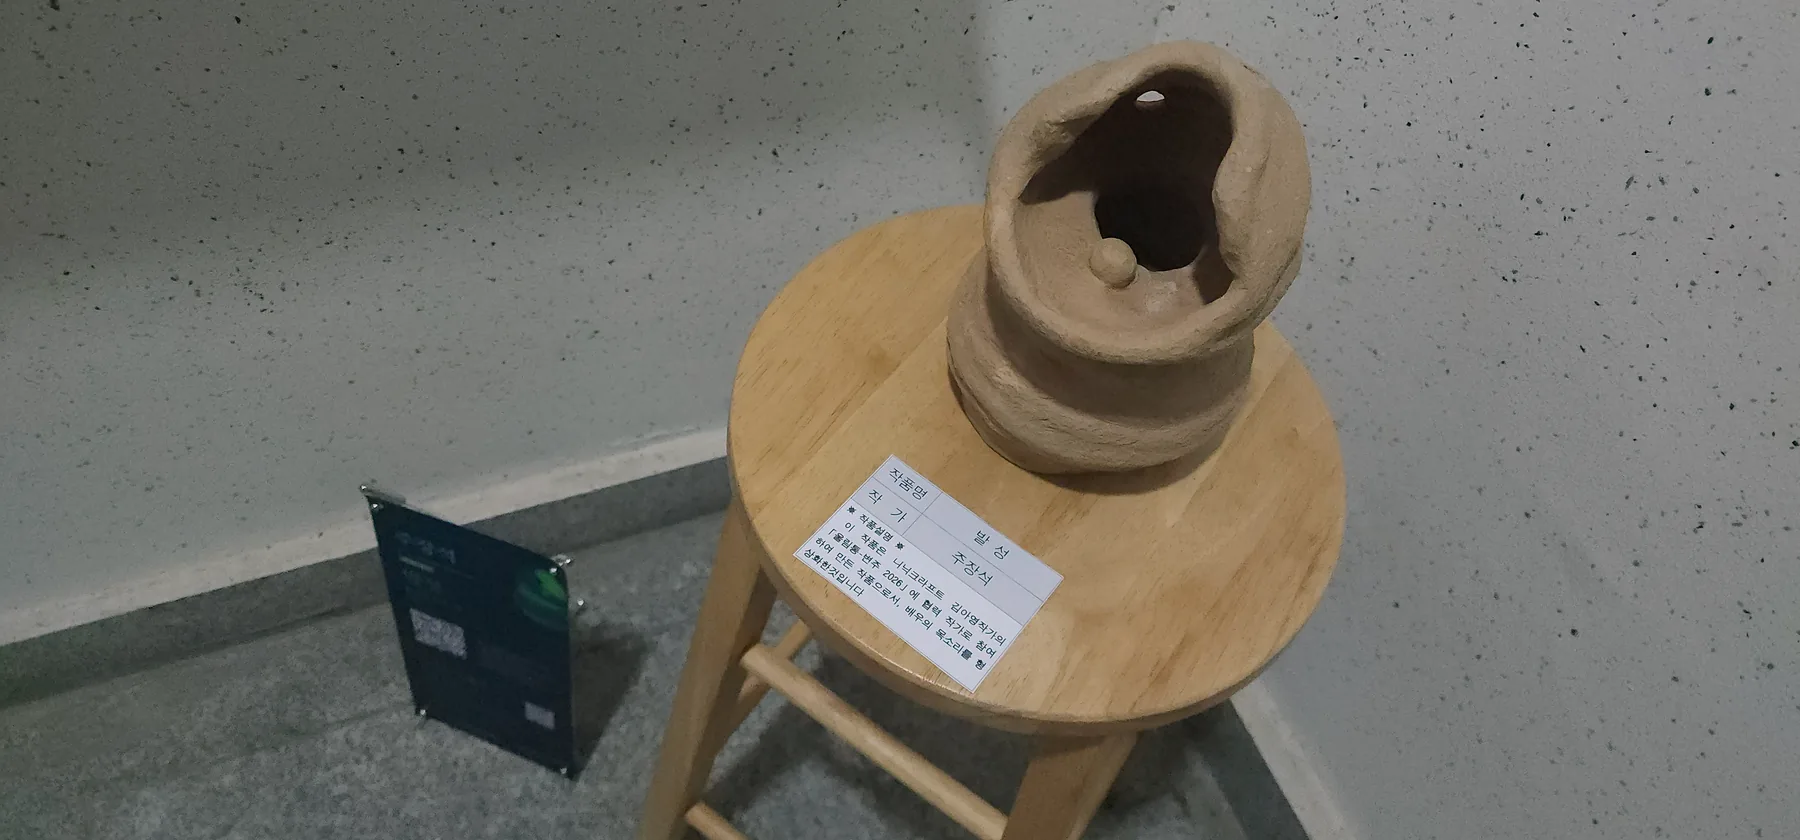
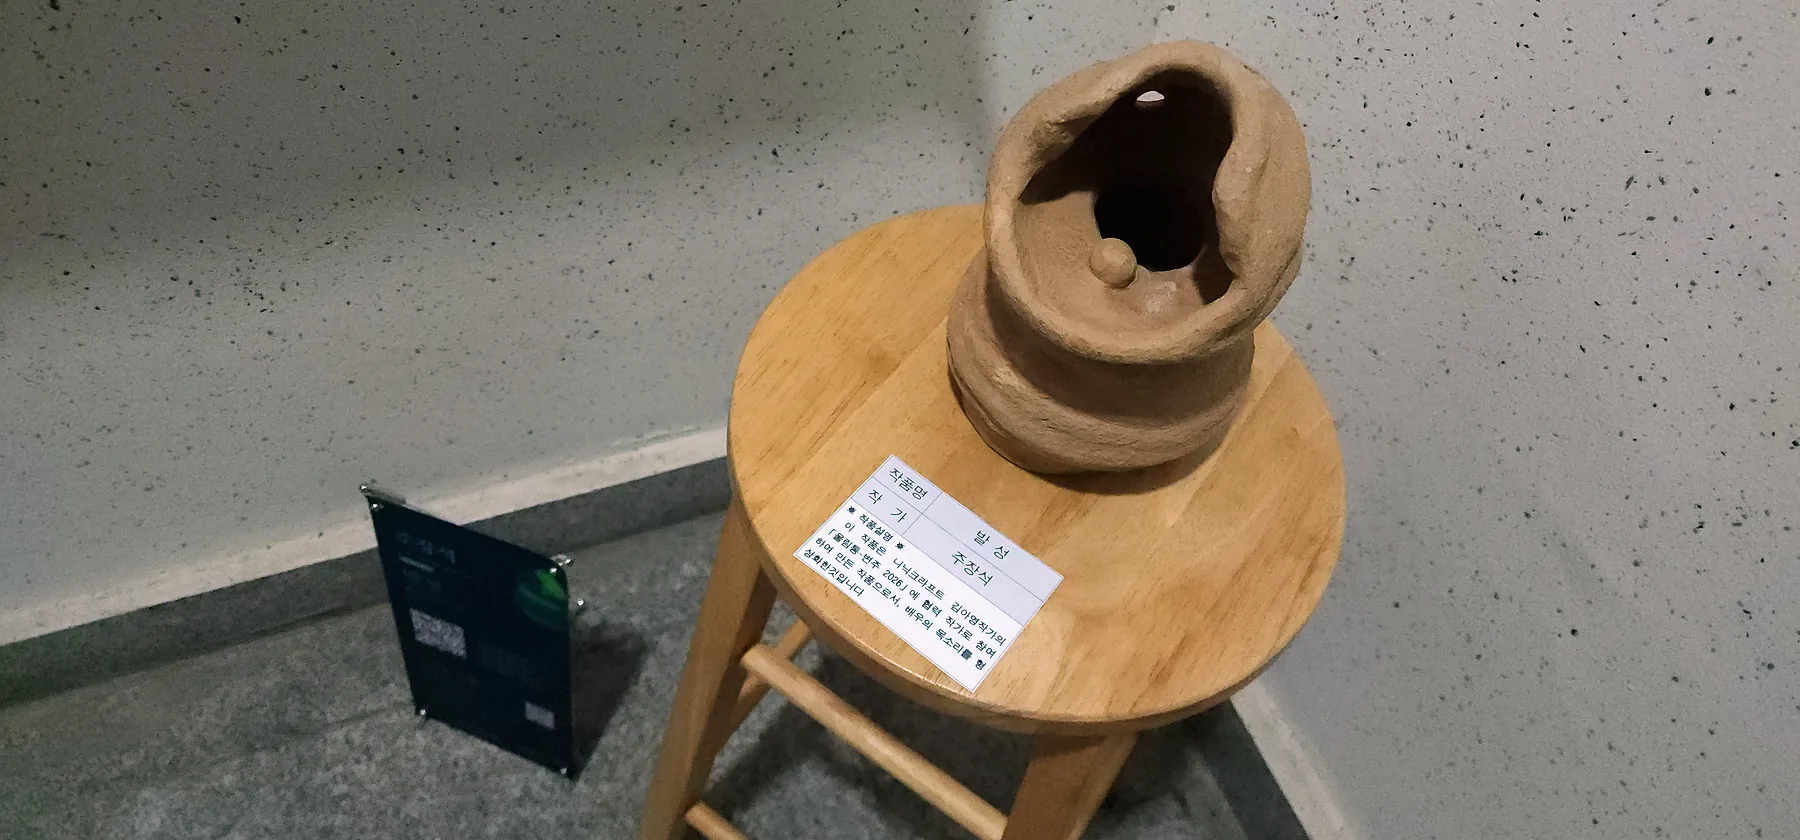
주장석 전시 전경: 네 장 모두 흰 벽 기준으로 초록 기 빼고 명암을 펴서 뿌연 느낌 제거

diff --git a/app/_content/artist-pages.js b/app/_content/artist-pages.js
@@ -365,7 +365,7 @@ const details = {
       monument: "/artist-media/joo-jangseok-monument.webp",
       photos: photos("joo-jangseok", ["〈발성〉을 빚는 주장석", "〈발성〉의 입을 다듬는 주장석", "야외 현장에서 대형 울림통을 쌓는 주장석"]),
       venue: { name: "예무아트컴퍼니 연습실", address: "원주시 현석길 11-3, 지하", period: "2026.11.21. ~ 12.13.", hours: "" },
-      // 3은 세로 사진이라 가운데 두고 양옆은 같은 사진을 흐리게 깔았다. 레벨·색을 살짝 보정(front는 초록 기만 빼고 조금 밝게).
+      // 3은 세로 사진이라 가운데 두고 양옆은 같은 사진을 흐리게 깔았다. 네 장 모두 흰 벽 기준으로 초록 기를 빼고(아주 살짝 따뜻한 중립), 명암을 펴서 뿌연 느낌을 뺐다.
       installPhotos: [
         install("joo-jangseok-front", "가까이에서 본 나무 스툴 위의 〈발성〉과 작품 캡션"),
         install("joo-jangseok-2", "나무 스툴 위에 놓인 〈발성〉과 작품 안내판"),
